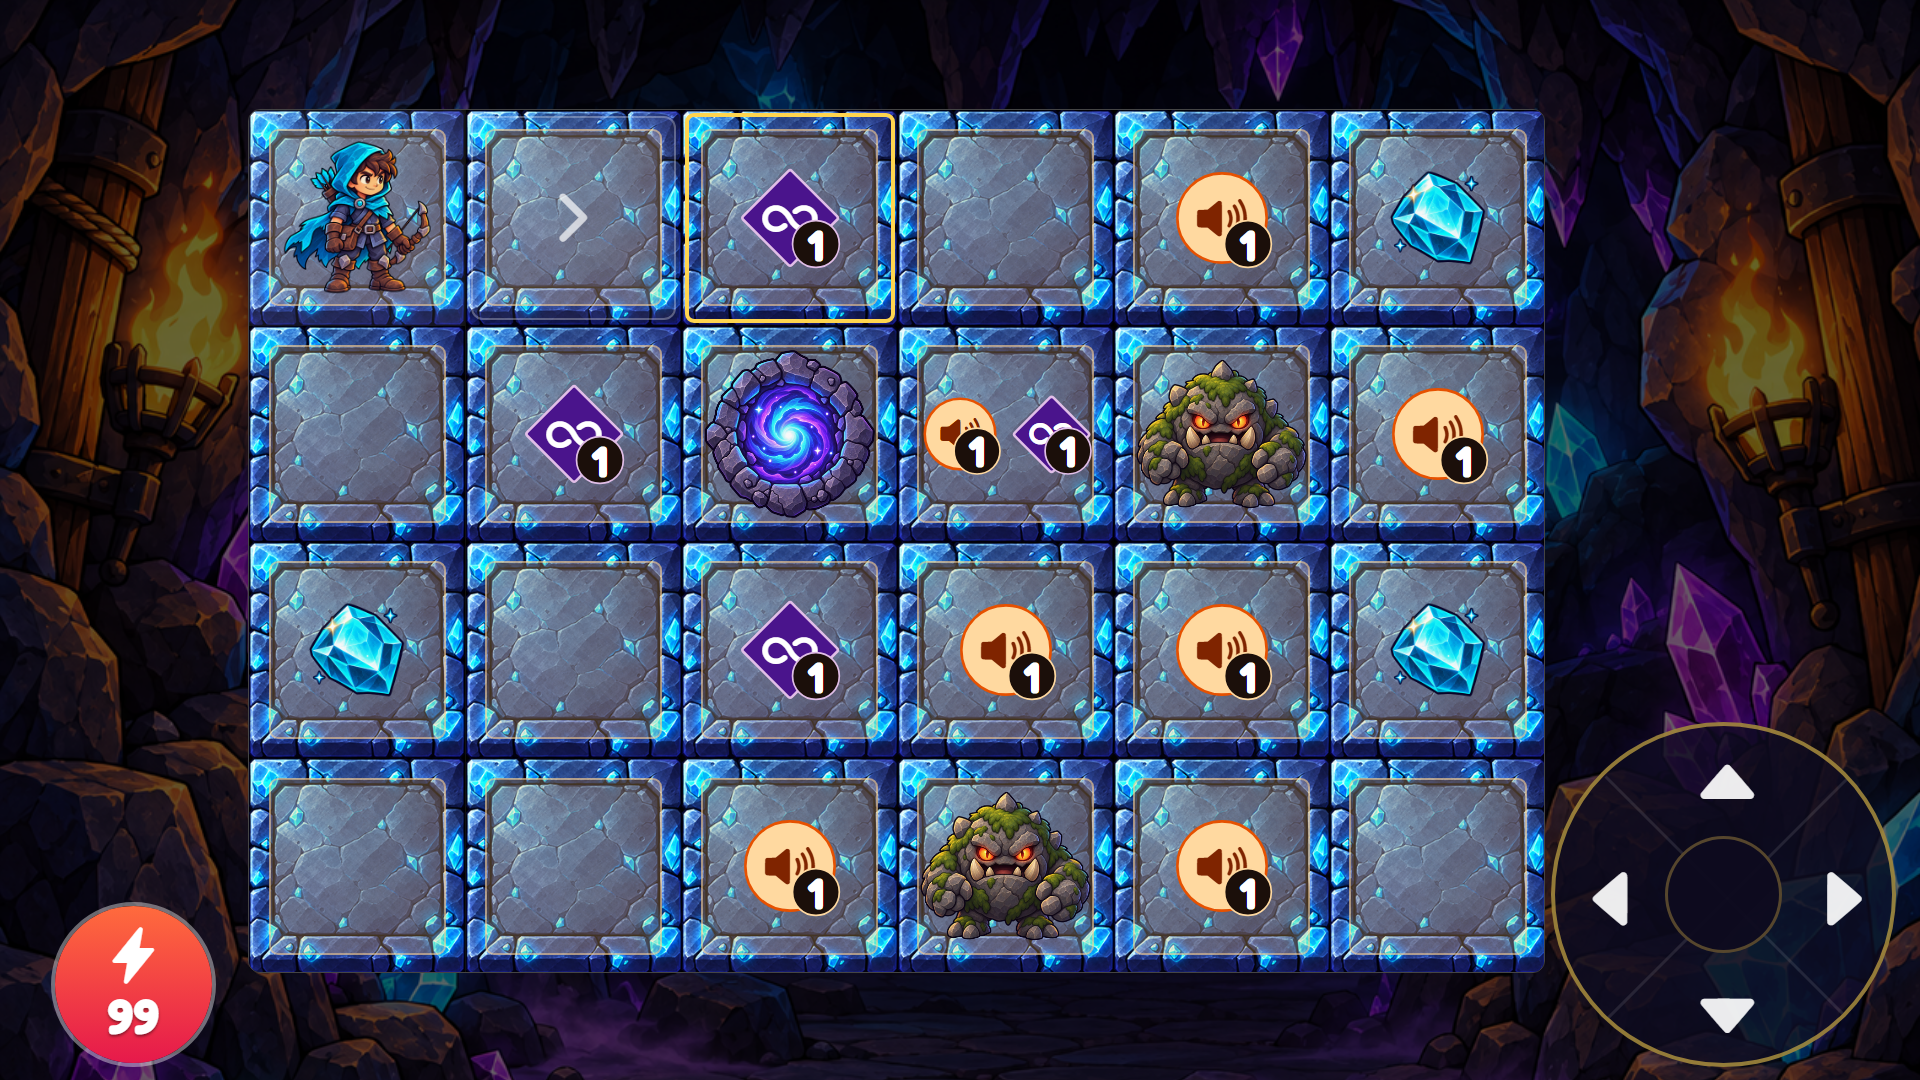
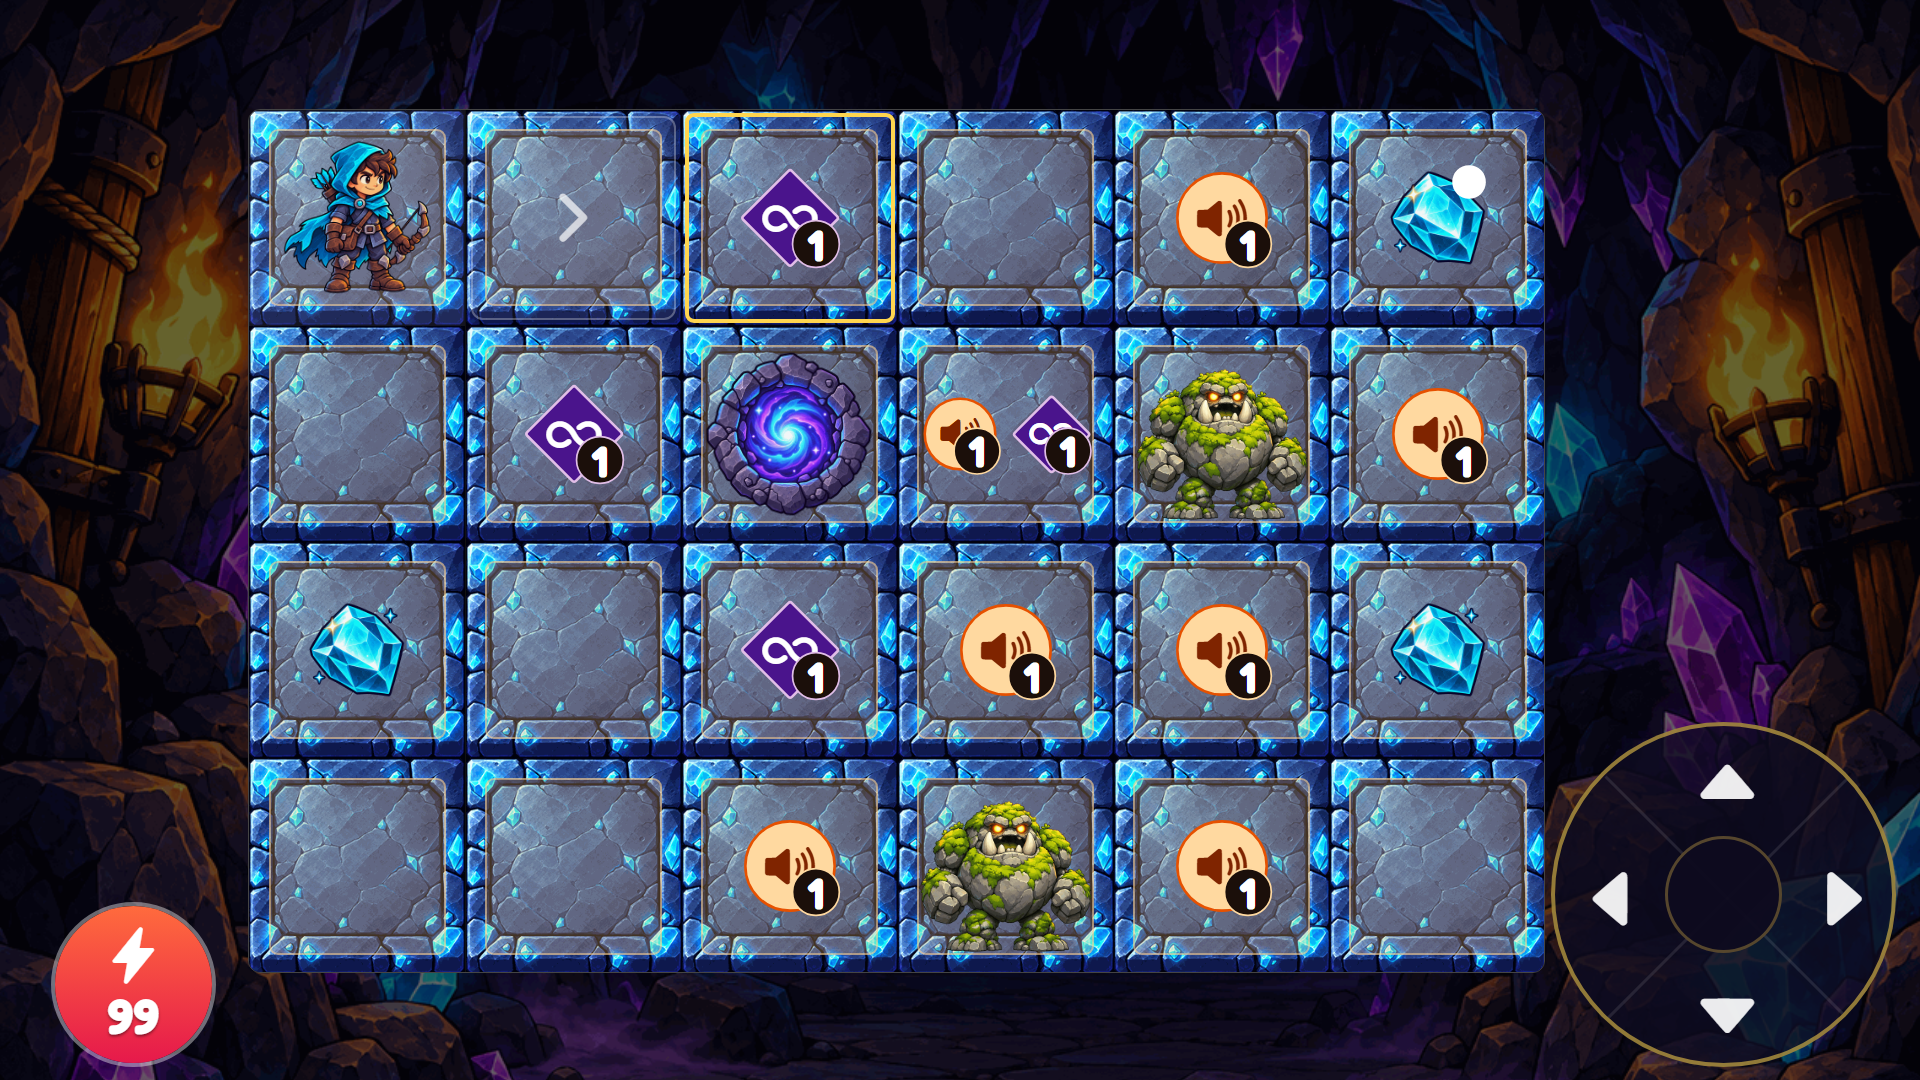
feat(art): the guardians breathe - a second frame for each, from one sheet apiece
- Guardian, stalker and sleeper each get a refreshed idle plus a matching
  'breathe' frame (one AI sheet per character via Figma, cut with the now
  general sliceBossSheet.py, quantized like every sprite). The guardian
  puffs up, the stalker's smoke flares, the sleeper's snot bubble inflates.
- GridCell swaps the frames on a slow beat with a random phase per creature,
  so a floor full of guardians never moves in lockstep; static under reduced
  motion. New frames join the startup preload.
- Store screenshots 01 and 02 recaptured with the new art.

diff --git a/src/ui/components/GridCell.tsx b/src/ui/components/GridCell.tsx
@@ -20,6 +20,13 @@ export const ASSETS: Record<"enemy" | "stalker" | "sleeper" | "boss" | "pit" | "
   coin:     require("../../assets/sprites/items/Icon_Gem.png"),
 };
 
+/** The second frame of each guardian: generated as one sheet per character, so the pair always matches. */
+const BREATHE: Record<"enemy" | "stalker" | "sleeper", ImageSourcePropType> = {
+  enemy:   require("../../assets/sprites/enemies/Guardian_Enemy_Breathe.png"),
+  stalker: require("../../assets/sprites/enemies/Stalker_Enemy_Breathe.png"),
+  sleeper: require("../../assets/sprites/enemies/Sleeper_Enemy_Breathe.png"),
+};
+
 export const NO_HINTS: NearbyHazards = { enemy: false, pit: false, enemyCount: 0, pitCount: 0 };
 
 const FACING_ICON: Record<Direction, keyof typeof Ionicons.glyphMap> = {
@@ -28,6 +35,34 @@ const FACING_ICON: Record<Direction, keyof typeof Ionicons.glyphMap> = {
   LEFT: "chevron-back",
   RIGHT: "chevron-forward",
 };
+
+/** A guardian breathes: two frames swapped on a slow beat, each creature on its own phase so a floor never moves in lockstep. */
+const EnemySprite = memo(({ type, size, calm }: { type: "enemy" | "stalker" | "sleeper"; size: number; calm: boolean }) => {
+  const [inhale, setInhale] = useState(false);
+  useEffect(() => {
+    if (calm) {
+      setInhale(false);
+      return;
+    }
+    let interval: ReturnType<typeof setInterval> | undefined;
+    const start = setTimeout(() => {
+      setInhale(true);
+      interval = setInterval(() => setInhale(v => !v), 850);
+    }, 150 + Math.random() * 900);
+    return () => {
+      clearTimeout(start);
+      if (interval) clearInterval(interval);
+    };
+  }, [calm]);
+  return (
+    <SpriteImage
+      style={{ width: size, height: size, position: "absolute" }}
+      source={inhale ? BREATHE[type] : ASSETS[type]}
+      resizeMode="contain"
+    />
+  );
+});
+EnemySprite.displayName = "EnemySprite";
 
 /** The vortex turns slowly forever (and swells with the shared pulse): a whirlpool, not a sticker. */
 const VortexSprite = memo(({ size, calm, pulse }: { size: number; calm: boolean; pulse: Animated.Value }) => {
@@ -288,11 +323,7 @@ const GridCell = memo(({
         <VortexSprite size={tileSize * 0.9} calm={calm} pulse={pulse} />
       )}
       {entity && (entity.type === 'enemy' || entity.type === 'stalker' || entity.type === 'sleeper') && (isVisited || isPlayerHere || killer) && (
-        <SpriteImage
-          style={{ width: tileSize * 0.9, height: tileSize * 0.9, position: 'absolute' }}
-          source={entity.type === 'stalker' ? ASSETS.stalker : entity.type === 'sleeper' ? ASSETS.sleeper : ASSETS.enemy}
-          resizeMode="contain"
-        />
+        <EnemySprite type={entity.type} size={tileSize * 0.9} calm={calm} />
       )}
       {entity?.type === 'sleeper' && (isVisited || isPlayerHere) && (
         <Text style={[styles.sleepMark, { fontSize: Math.max(9, tileSize * 0.3) }]} pointerEvents="none">zZ</Text>

diff --git a/src/ui/preloadImages.ts b/src/ui/preloadImages.ts
@@ -29,8 +29,11 @@ export function getPreloadImages(stats: LocalStats | null = null): ImageSourcePr
     require('../assets/sprites/tiles/Tile_Revealed.png'),
     require('../assets/sprites/tiles/Danger_Vortex.png'),
     require('../assets/sprites/enemies/Guardian_Enemy.png'),
+    require('../assets/sprites/enemies/Guardian_Enemy_Breathe.png'),
     require('../assets/sprites/enemies/Stalker_Enemy.png'),
+    require('../assets/sprites/enemies/Stalker_Enemy_Breathe.png'),
     require('../assets/sprites/enemies/Sleeper_Enemy.png'),
+    require('../assets/sprites/enemies/Sleeper_Enemy_Breathe.png'),
     require('../assets/sprites/enemies/Grimbur_Boss.png'),
     require('../assets/sprites/enemies/Grimbur_Boss_Breathe.png'),
     require('../assets/sprites/enemies/Grimbur_Boss_Attack.png'),

diff --git a/scripts/sliceBossSheet.py b/scripts/sliceBossSheet.py
@@ -1,10 +1,12 @@
-"""Cuts the AI-generated Grimbur sheet (4 poses on white) into the four boss frames the game animates.
+"""Cuts an AI-generated character sheet (poses side by side on white) into the frames the game animates.
 
 Unlike processSprites.py, every frame shares ONE scale and a common bottom baseline, so swapping
 frames never makes the monster jump or change size.
 
-Usage: python scripts/sliceBossSheet.py <sheet.png>
-Writes src/assets/sprites/enemies/Grimbur_Boss[_Breathe|_Attack|_Hurt].png (512px each).
+Usage:
+  python scripts/sliceBossSheet.py <sheet.png>                      # the Grimbur's 4 frames (default)
+  python scripts/sliceBossSheet.py <sheet.png> Name.png,Name_B.png  # any sheet: one name per pose, left to right
+Writes the frames into src/assets/sprites/enemies/ (512px each).
 """
 import os
 import sys
@@ -42,9 +44,9 @@ def white_background_to_alpha(im: Image.Image) -> Image.Image:
     return Image.fromarray(out, 'RGBA')
 
 
-def split_poses(alpha: np.ndarray) -> list[tuple[int, int, int, int]]:
+def split_poses(alpha: np.ndarray, count: int) -> list[tuple[int, int, int, int]]:
     """Connected components of the alpha mask: poses whose raised claws overlap in columns still separate.
-    Returns the 4 largest blobs' boxes (x0, y0, x1, y1), left to right."""
+    Returns the `count` largest blobs' boxes (x0, y0, x1, y1), left to right."""
     mask = alpha > 24
     labels = np.zeros(mask.shape, dtype=np.int32)
     boxes = []
@@ -71,15 +73,15 @@ def split_poses(alpha: np.ndarray) -> list[tuple[int, int, int, int]]:
                     stack.append((ny, nx_))
         boxes.append((n, (x0, y0, x1 + 1, y1 + 1), nxt))
         nxt += 1
-    boxes = [(b, lab) for _, b, lab in sorted(boxes, reverse=True)[:4]]  # the 4 big blobs; specks drop out
+    boxes = [(b, lab) for _, b, lab in sorted(boxes, reverse=True)[:count]]  # the big blobs; specks drop out
     return labels, sorted(boxes, key=lambda b: b[0][0])
 
 
-def main(sheet_path: str) -> None:
+def main(sheet_path: str, names: list[str]) -> None:
     im = white_background_to_alpha(Image.open(sheet_path))
     alpha = np.asarray(im.getchannel('A'))
-    labels, boxes = split_poses(alpha)
-    while len(boxes) < 4:
+    labels, boxes = split_poses(alpha, len(names))
+    while len(boxes) < len(names):
         # Two poses touching (fur tip to fur tip) come out as one wide blob: cut it at its thinnest column.
         (x0, y0, x1, y1), lab = max(boxes, key=lambda b: b[0][2] - b[0][0])
         boxes.remove(((x0, y0, x1, y1), lab))
@@ -88,7 +90,7 @@ def main(sheet_path: str) -> None:
         cut = x0 + lo + int(np.argmin(fill[lo:hi]))
         boxes += [((x0, y0, cut, y1), lab), ((cut, y0, x1, y1), lab)]
         boxes.sort(key=lambda b: b[0][0])
-    assert len(boxes) == 4, f'expected 4 poses, found {len(boxes)}: {boxes}'
+    assert len(boxes) == len(names), f'expected {len(names)} poses, found {len(boxes)}: {boxes}'
     frames = []
     for (x0, y0, x1, y1), lab in boxes:
         f = im.crop((x0, y0, x1, y1))
@@ -99,7 +101,7 @@ def main(sheet_path: str) -> None:
         frames.append(f.crop(f.getchannel('A').getbbox()))  # tight box per pose
     inner = int(SIZE * (1 - 2 * PADDING))
     scale = inner / max(max(f.size) for f in frames)  # ONE scale for the whole set
-    for name, f in zip(NAMES, frames):
+    for name, f in zip(names, frames):
         f = f.resize((max(1, round(f.width * scale)), max(1, round(f.height * scale))), Image.LANCZOS)
         canvas = Image.new('RGBA', (SIZE, SIZE), (0, 0, 0, 0))
         bottom = SIZE - int(SIZE * PADDING)  # feet share one baseline across frames
@@ -110,4 +112,4 @@ def main(sheet_path: str) -> None:
 
 
 if __name__ == '__main__':
-    main(sys.argv[1])
+    main(sys.argv[1], sys.argv[2].split(',') if len(sys.argv) > 2 else NAMES)
